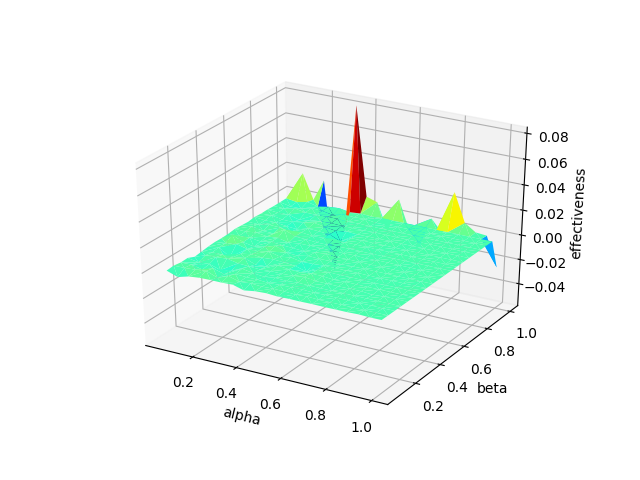
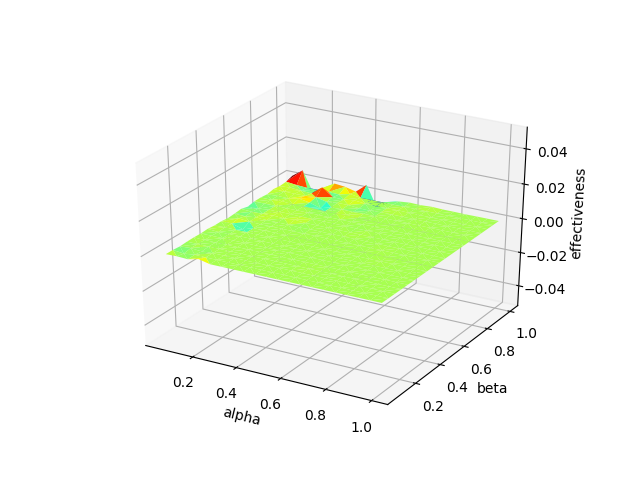
Adds seed to exp and adds new parameters for number of UAVs.

diff --git a/run_exp.py b/run_exp.py
@@ -65,17 +65,15 @@ def run_trial(alpha, beta, n, uavs, victims, adj, turns, allow_collisions):
     return (alpha, beta, eff, len(victims))
 
 
-def run_trials(uavs, victims, n, rows, cols, turns, adj, alphas, betas, trials):
+def run_trials(uavs, victims, n, rows, cols, turns, adj, alphas, betas, trials, seed):
+    random.seed(seed)
     r1, r2 = [], []
     for alpha in alphas:
         for beta in betas:
             for trial in range(trials):
                 uav_conf = []
                 for u_i in range(uavs):
-                    zone = random.randint(0, n-1)
-                    while zone in uav_conf and not allow_collisions:
-                        zone = random.randint(0, n-1)
-                    uav_conf.append(zone)
+                    uav_conf.append(random.randint(0, n-1))
                 victim_conf = []
                 for v_j in range(victims):
                     victim_conf.append(random.randint(0, n-1))
@@ -88,24 +86,24 @@ def run_trials(uavs, victims, n, rows, cols, turns, adj, alphas, betas, trials):
     return r1, r2
 
 
-def graph_results(r1, r2, title):
-    data = []
-    for p_i in r1:
-        data.append([p_i[0], p_i[1], p_i[2]])
-    df = pd.DataFrame(data, columns=['X', 'Y', 'Z'])
-    fig = plt.figure()
-    ax = fig.gca(projection='3d')
-    ax.plot_trisurf(df['X'], df['Y'], df['Z'], cmap=plt.cm.jet, linewidth=0.01)
-    ax.set_xlabel('alpha')
-    ax.set_ylabel('beta')
-    ax.set_zlabel('effectiveness')
-    plt.show()
-    plt.savefig(title + '.png')
-
+def graph_results(r1, r2, title, diff_only=False, set_lims=True):
+    if not diff_only:
+        data = []
+        for p_i in r1:
+            data.append([p_i[0], p_i[1], p_i[2]])
+        df = pd.DataFrame(data, columns=['X', 'Y', 'Z'])
+        fig = plt.figure()
+        ax = fig.gca(projection='3d')
+        ax.plot_trisurf(df['X'], df['Y'], df['Z'], cmap=plt.cm.jet, linewidth=0.01)
+        ax.set_xlabel('alpha')
+        ax.set_ylabel('beta')
+        ax.set_zlabel('effectiveness')
+        plt.show()
+        plt.savefig(title + '.png')
     delta = []
     for i in range(len(r1)):
         t1, t2 = r1[i], r2[i]
-        delta.append((t1[0], t1[1], t2[2] - t1[2], t2[3] - t1[3]))
+        delta.append((t1[0], t1[1], t2[2]-t1[2], t2[3] - t1[3]))
     data = []
     for d_i in delta:
         data.append([d_i[0], d_i[1], d_i[2]])
@@ -113,6 +111,8 @@ def graph_results(r1, r2, title):
     fig = plt.figure()
     ax = fig.gca(projection='3d')
     ax.plot_trisurf(df['X'], df['Y'], df['Z'], cmap=plt.cm.jet, linewidth=0.01)
+    if set_lims:
+        ax.set_zlim3d(-0.05, 0.05)
     ax.set_xlabel('alpha')
     ax.set_ylabel('beta')
     ax.set_zlabel('effectiveness')
@@ -121,7 +121,8 @@ def graph_results(r1, r2, title):
 
 
 def main():
-    uavs = 4
+    seed = 695480078
+    uavs = [4, 8, 16, 24, 32, 64, 128]
     victims = 10
     n, rows, cols = 164, 4, 41
     turns = 60
@@ -140,8 +141,12 @@ def main():
     alphas = [ float(x+1) / 20.0 for x in range(20) ]
     betas = [ float(x+1) / 20.0 for x in range(20) ]
     trials = 1
-    r1, r2 = run_trials(uavs, victims, n, rows, cols, turns, adj, alphas, betas, trials)
-    graph_results(r1, r2, 'fig.4')
+    u1, u2 = run_trials(uavs[0], victims, n, rows, cols, turns, adj, alphas, betas, trials, seed)
+    graph_results(u1, u2, 'fig.' + str(uavs[0]))
+    for j in range(1, len(uavs)):
+        r1, r2 = run_trials(uavs[j], victims, n, rows, cols, turns, adj, alphas, betas, trials, seed)
+        graph_results(r1, r2, 'fig.' + str(uavs[j]))
+        graph_results(u1, r1, 'fig.4.' + str(uavs[j]), diff_only=True, set_lims=False)
 
 
 if __name__ == "__main__":
